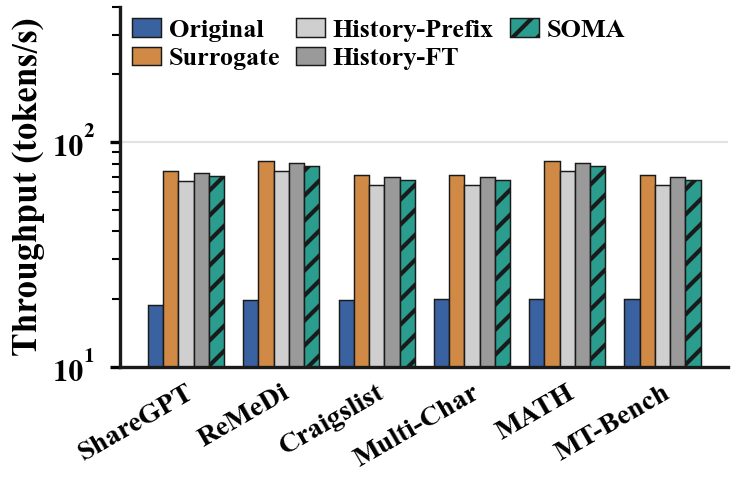
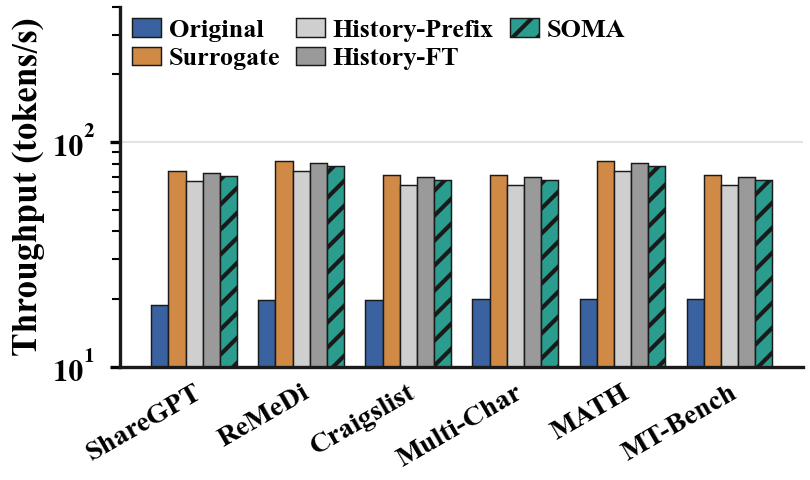
Widen Figures 4 and 6 to fill their rows
- Figure 4: throughput panels re-rendered at 2.7x1.6 in (same values) and
  placed at 0.49\textwidth each.
- Figure 6: panels scaled to a common height and widths 0.525/0.445
  \textwidth so the row is filled without distorting the graphics.
- Main text still ends on page 9.

diff --git a/experiment_new.tex b/experiment_new.tex
@@ -91,12 +91,12 @@ Response similarity is the primary metric for replacing the original model, but 
 
 \begin{figure}[!t]
   \centering
-  \begin{subfigure}[t]{0.43\textwidth}
+  \begin{subfigure}[t]{0.49\textwidth}
     \centering
     \includegraphics[width=\linewidth]{figure/llama_through.pdf}
     \caption{LLaMA family.}
   \end{subfigure}\hfill
-  \begin{subfigure}[t]{0.43\textwidth}
+  \begin{subfigure}[t]{0.49\textwidth}
     \centering
     \includegraphics[width=\linewidth]{figure/qwen_through.pdf}
     \caption{Qwen family.}
@@ -150,12 +150,12 @@ We first ablate SOMA on the LLaMA family to identify which components drive the 
 
 \begin{figure}[!t]
   \centering
-  \begin{subfigure}[t]{0.40\textwidth}
+  \begin{subfigure}[t]{0.525\textwidth}
     \centering
     \includegraphics[width=\linewidth]{figure/truncation_trend.pdf}
     \caption{Similarity under different switch points.}
   \end{subfigure}\hfill
-  \begin{subfigure}[t]{0.40\textwidth}
+  \begin{subfigure}[t]{0.445\textwidth}
     \centering
     \includegraphics[width=\linewidth]{figure/truncation_vs_similarity.pdf}
     \caption{Switch point vs.\ final similarity.}

diff --git a/figure/src/restyle_figs.py b/figure/src/restyle_figs.py
@@ -72,7 +72,7 @@ qwen = np.array([
     [80.622339, 265.328229, 238.795406, 259.021664, 252.061818],
     [69.564893, 258.066661, 232.259995, 252.905328, 245.163328]])
 for name, data, ylim in (("llama_through", llama, (10, 400)), ("qwen_through", qwen, (40, 1500))):
-    fig, ax = plt.subplots(figsize=(2.45, 1.6))
+    fig, ax = plt.subplots(figsize=(2.7, 1.6))
     x = np.arange(len(datasets)); w = 0.16
     for j, m in enumerate(methods):
         ax.bar(x + (j - 2) * w, data[:, j], width=w, color=ps.METHOD_COLOR[m], edgecolor="#1A1A1A", lw=0.35,
